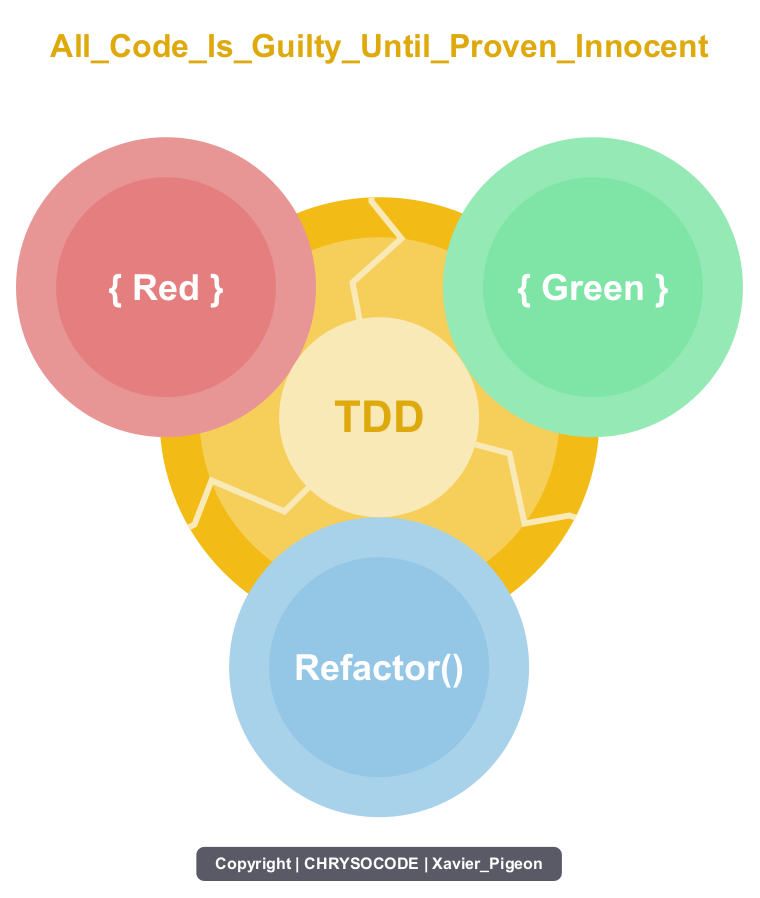
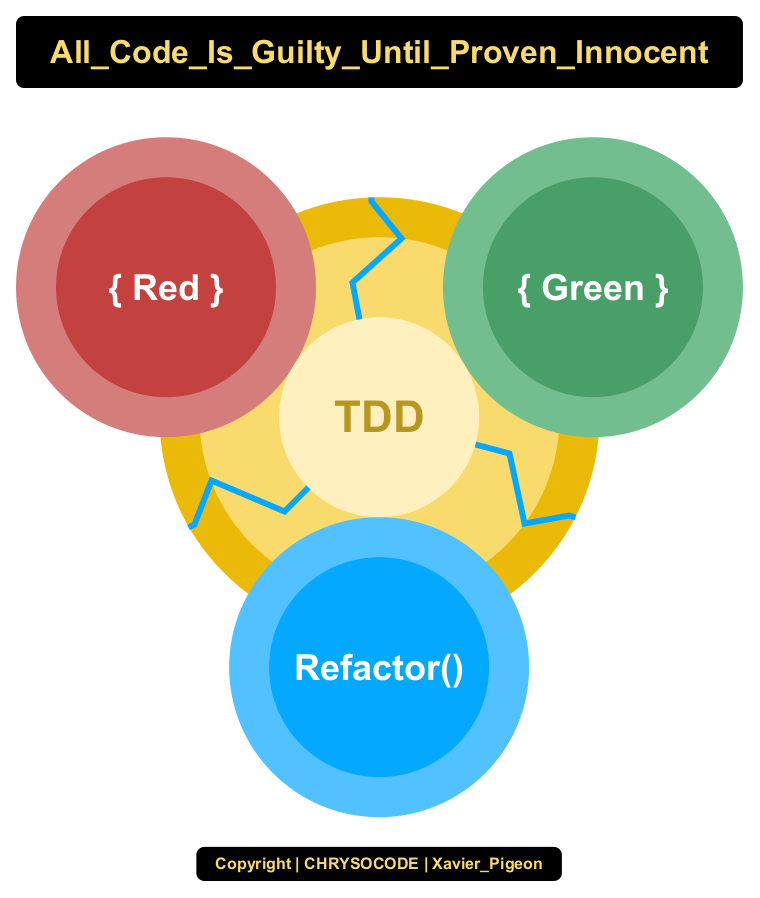
Changer la palette colorimétrique

diff --git a/README.md b/README.md
@@ -61,7 +61,7 @@ Loi | Formulation correcte en français et sans ambiguïté
 
 Le micro-cycle de TDD se divise en deux nano-cycles : un nano-cycle de *Code-Driven Testing*, puis un nano-cycle de remaniement. C'est un processus itératif qui comporte cinq étapes.
 
-![Cycle global de TDD](ressources/schemas/cycle-global-tdd.png)
+![Cycle global de TDD](ressources/schemas/tdd_global_cycle__fr__chrysocode.png)
 
 Étape | Consigne
 :---: | --------
